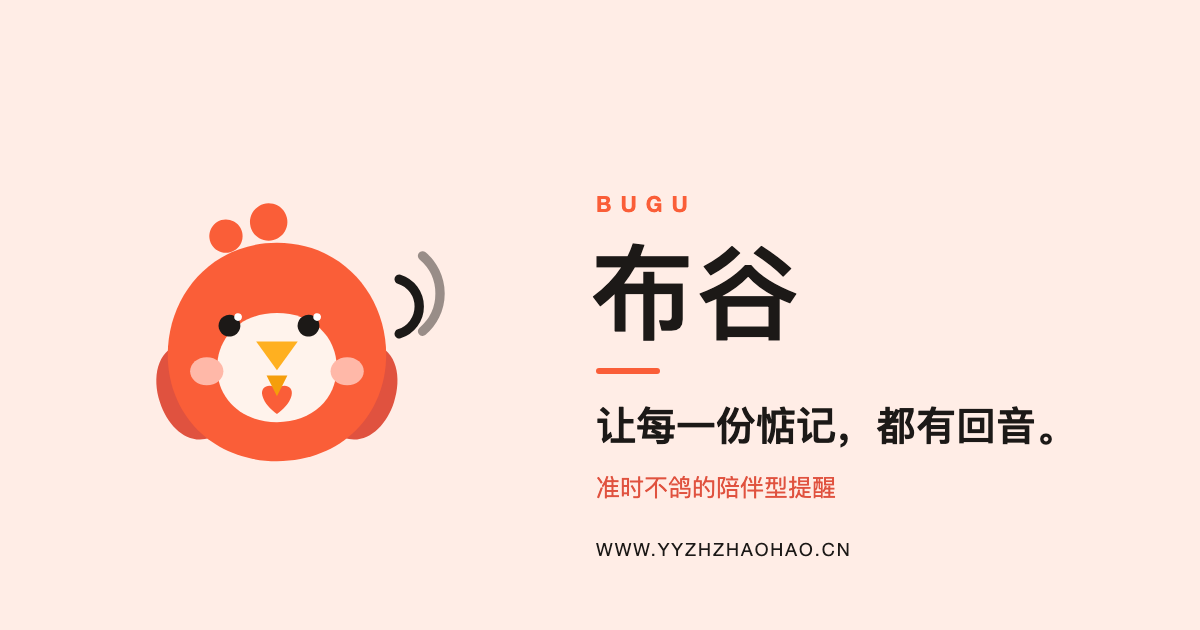
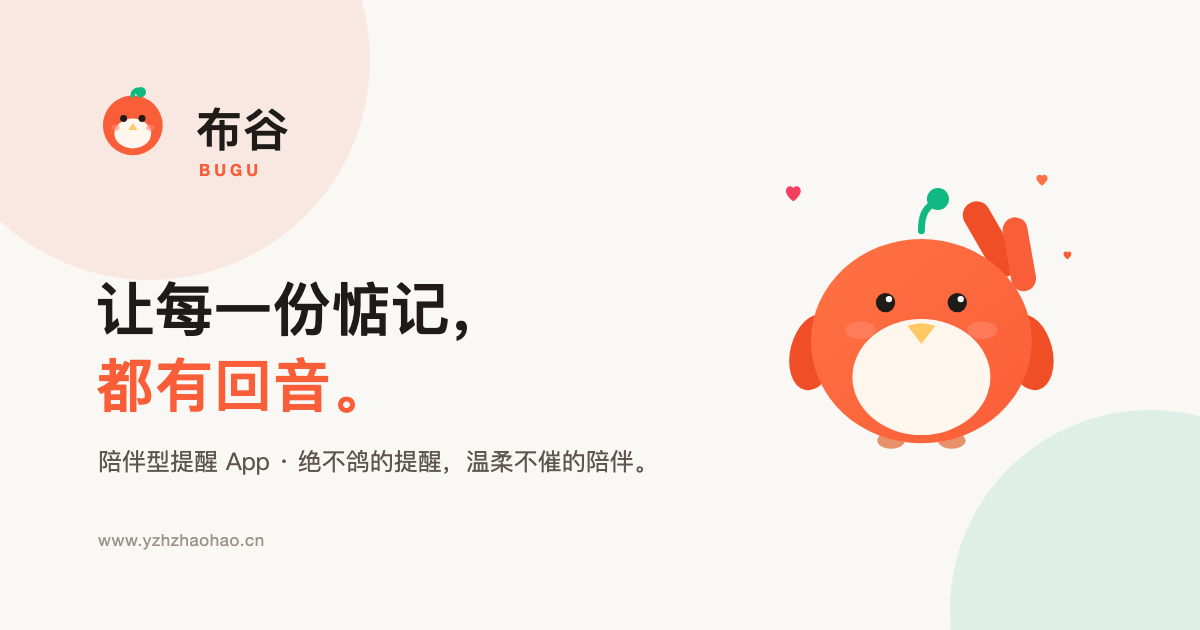
feat(website): 以官网原站点设计为母版统一全站视觉
页头图形、favicon 全尺寸与 OG 卡统一切换为原站点设计语言（同一几何构成
与色板），并修复 favicon 多尺寸资源与 og:image 从未部署成功/从未声明导致
分享卡片长期无图的问题。版本参数同步为 ?v=20261110。

diff --git a/website/src/pages/BondPage.vue b/website/src/pages/BondPage.vue
@@ -106,25 +106,13 @@ onUnmounted(() => {
       <div class="container bar">
         <a class="logo" href="../index.html" aria-label="布谷 BUGU 首页">
           <svg viewBox="0 0 64 64" aria-hidden="true">
-            <g transform="translate(-26.43,-19.15)">
-              <path fill="#E0523F" d="M46.5,30.5 A3.2,3.2 0 1,1 46.4,30.4 Z"/>
-              <path fill="#E0523F" d="M55,27.5 A3.6,3.6 0 1,1 54.9,27.4 Z"/>
-              <g transform="rotate(-18 38 62)"><path fill="#E0523F" d="M38,53 C 33.5,53 31,57.5 31,62.5 C 31,67.5 33.5,72 38,72 C 42.5,72 45,67.5 45,62.5 C 45,57.5 42.5,53 38,53 Z"/></g>
-              <g transform="rotate(18 70 62)"><path fill="#E0523F" d="M70,53 C 65.5,53 63,57.5 63,62.5 C 63,67.5 65.5,72 70,72 C 74.5,72 77,67.5 77,62.5 C 77,57.5 74.5,53 70,53 Z"/></g>
-              <path fill="#FA5E38" d="M54,34 C 66.5,34 75,44 75,55.5 C 75,67 66.5,76 54,76 C 41.5,76 33,67 33,55.5 C 33,44 41.5,34 54,34 Z"/>
-              <path fill="#FFF3EC" d="M54,47.5 C 60.8,47.5 65.5,52 65.5,58 C 65.5,64 60.8,68.5 54,68.5 C 47.2,68.5 42.5,64 42.5,58 C 42.5,52 47.2,47.5 54,47.5 Z"/>
-              <path fill="#FA5E38" d="M54,62.2 C 52.9,60.9 50.7,61.5 51.2,63.4 C 51.6,64.9 52.8,66 54,66.9 C 55.2,66 56.4,64.9 56.8,63.4 C 57.3,61.5 55.1,60.9 54,62.2 Z"/>
-              <path fill="#1C1917" d="M46.4,48.5 A2.1,2.1 0 1,1 46.3,48.4 Z"/>
-              <path fill="#1C1917" d="M61.6,48.5 A2.1,2.1 0 1,1 61.5,48.4 Z"/>
-              <path fill="#FFFFFF" d="M47.1,47.8 A0.75,0.75 0 1,1 47.0,47.7 Z"/>
-              <path fill="#FFFFFF" d="M62.3,47.8 A0.75,0.75 0 1,1 62.2,47.7 Z"/>
-              <path fill="#FFB020" d="M50,53 L58,53 L54,58.5 Z"/>
-              <path fill="#F59E0B" d="M52,59.5 L56,59.5 L54,63.5 Z"/>
-              <path fill="#FFB8A8" d="M40.5,56 C 42.3,56 43.7,57.2 43.7,58.7 C 43.7,60.2 42.3,61.4 40.5,61.4 C 38.7,61.4 37.3,60.2 37.3,58.7 C 37.3,57.2 38.7,56 40.5,56 Z"/>
-              <path fill="#FFB8A8" d="M67.5,56 C 69.3,56 70.7,57.2 70.7,58.7 C 70.7,60.2 69.3,61.4 67.5,61.4 C 65.7,61.4 64.3,60.2 64.3,58.7 C 64.3,57.2 65.7,56 67.5,56 Z"/>
-              <path fill="none" stroke="#1C1917" stroke-width="1.8" stroke-linecap="round" d="M77.5,41 A5.5,5.5 0 0,1 77.5,51.5"/>
-              <path fill="none" stroke="#1C1917" stroke-width="1.8" stroke-linecap="round" stroke-opacity="0.45" d="M82,36.5 A9.5,9.5 0 0,1 82,51"/>
-            </g>
+            <circle cx="32" cy="36" r="26" fill="#FA5E38"/>
+            <ellipse cx="32" cy="43" rx="16" ry="13" fill="#FFF6EE"/>
+            <circle cx="24" cy="30" r="3" fill="#1E1B18"/>
+            <circle cx="40" cy="30" r="3" fill="#1E1B18"/>
+            <path d="M32 34 L28 40 L36 40 Z" fill="#FFC966"/>
+            <path d="M32 10 C32 6 36 4 38 6" stroke="#10B981" stroke-width="4" stroke-linecap="round" fill="none"/>
+            <circle cx="39" cy="7" r="4.5" fill="#10B981"/>
           </svg>
           <span class="logo-name">布谷</span>
           <span class="logo-en">BUGU</span>

diff --git a/website/src/components/LegalLayout.vue b/website/src/components/LegalLayout.vue
@@ -13,25 +13,13 @@ defineProps<{
       <div class="container bar">
         <a class="logo" href="./index.html" aria-label="布谷 BUGU 首页">
           <svg viewBox="0 0 64 64" aria-hidden="true">
-            <g transform="translate(-26.43,-19.15)">
-              <path fill="#E0523F" d="M46.5,30.5 A3.2,3.2 0 1,1 46.4,30.4 Z"/>
-              <path fill="#E0523F" d="M55,27.5 A3.6,3.6 0 1,1 54.9,27.4 Z"/>
-              <g transform="rotate(-18 38 62)"><path fill="#E0523F" d="M38,53 C 33.5,53 31,57.5 31,62.5 C 31,67.5 33.5,72 38,72 C 42.5,72 45,67.5 45,62.5 C 45,57.5 42.5,53 38,53 Z"/></g>
-              <g transform="rotate(18 70 62)"><path fill="#E0523F" d="M70,53 C 65.5,53 63,57.5 63,62.5 C 63,67.5 65.5,72 70,72 C 74.5,72 77,67.5 77,62.5 C 77,57.5 74.5,53 70,53 Z"/></g>
-              <path fill="#FA5E38" d="M54,34 C 66.5,34 75,44 75,55.5 C 75,67 66.5,76 54,76 C 41.5,76 33,67 33,55.5 C 33,44 41.5,34 54,34 Z"/>
-              <path fill="#FFF3EC" d="M54,47.5 C 60.8,47.5 65.5,52 65.5,58 C 65.5,64 60.8,68.5 54,68.5 C 47.2,68.5 42.5,64 42.5,58 C 42.5,52 47.2,47.5 54,47.5 Z"/>
-              <path fill="#FA5E38" d="M54,62.2 C 52.9,60.9 50.7,61.5 51.2,63.4 C 51.6,64.9 52.8,66 54,66.9 C 55.2,66 56.4,64.9 56.8,63.4 C 57.3,61.5 55.1,60.9 54,62.2 Z"/>
-              <path fill="#1C1917" d="M46.4,48.5 A2.1,2.1 0 1,1 46.3,48.4 Z"/>
-              <path fill="#1C1917" d="M61.6,48.5 A2.1,2.1 0 1,1 61.5,48.4 Z"/>
-              <path fill="#FFFFFF" d="M47.1,47.8 A0.75,0.75 0 1,1 47.0,47.7 Z"/>
-              <path fill="#FFFFFF" d="M62.3,47.8 A0.75,0.75 0 1,1 62.2,47.7 Z"/>
-              <path fill="#FFB020" d="M50,53 L58,53 L54,58.5 Z"/>
-              <path fill="#F59E0B" d="M52,59.5 L56,59.5 L54,63.5 Z"/>
-              <path fill="#FFB8A8" d="M40.5,56 C 42.3,56 43.7,57.2 43.7,58.7 C 43.7,60.2 42.3,61.4 40.5,61.4 C 38.7,61.4 37.3,60.2 37.3,58.7 C 37.3,57.2 38.7,56 40.5,56 Z"/>
-              <path fill="#FFB8A8" d="M67.5,56 C 69.3,56 70.7,57.2 70.7,58.7 C 70.7,60.2 69.3,61.4 67.5,61.4 C 65.7,61.4 64.3,60.2 64.3,58.7 C 64.3,57.2 65.7,56 67.5,56 Z"/>
-              <path fill="none" stroke="#1C1917" stroke-width="1.8" stroke-linecap="round" d="M77.5,41 A5.5,5.5 0 0,1 77.5,51.5"/>
-              <path fill="none" stroke="#1C1917" stroke-width="1.8" stroke-linecap="round" stroke-opacity="0.45" d="M82,36.5 A9.5,9.5 0 0,1 82,51"/>
-            </g>
+            <circle cx="32" cy="36" r="26" fill="#FA5E38"/>
+            <ellipse cx="32" cy="43" rx="16" ry="13" fill="#FFF6EE"/>
+            <circle cx="24" cy="30" r="3" fill="#1E1B18"/>
+            <circle cx="40" cy="30" r="3" fill="#1E1B18"/>
+            <path d="M32 34 L28 40 L36 40 Z" fill="#FFC966"/>
+            <path d="M32 10 C32 6 36 4 38 6" stroke="#10B981" stroke-width="4" stroke-linecap="round" fill="none"/>
+            <circle cx="39" cy="7" r="4.5" fill="#10B981"/>
           </svg>
           <span class="logo-name">布谷</span>
           <span class="logo-en">BUGU</span>

diff --git a/website/src/components/SiteHeader.vue b/website/src/components/SiteHeader.vue
@@ -21,25 +21,13 @@ onUnmounted(() => {
     <div class="container bar">
       <a class="logo" href="#top" aria-label="布谷 BUGU 首页">
         <svg viewBox="0 0 64 64" class="logo-mark" aria-hidden="true">
-          <g transform="translate(-26.43,-19.15)">
-            <path fill="#E0523F" d="M46.5,30.5 A3.2,3.2 0 1,1 46.4,30.4 Z"/>
-            <path fill="#E0523F" d="M55,27.5 A3.6,3.6 0 1,1 54.9,27.4 Z"/>
-            <g transform="rotate(-18 38 62)"><path fill="#E0523F" d="M38,53 C 33.5,53 31,57.5 31,62.5 C 31,67.5 33.5,72 38,72 C 42.5,72 45,67.5 45,62.5 C 45,57.5 42.5,53 38,53 Z"/></g>
-            <g transform="rotate(18 70 62)"><path fill="#E0523F" d="M70,53 C 65.5,53 63,57.5 63,62.5 C 63,67.5 65.5,72 70,72 C 74.5,72 77,67.5 77,62.5 C 77,57.5 74.5,53 70,53 Z"/></g>
-            <path fill="#FA5E38" d="M54,34 C 66.5,34 75,44 75,55.5 C 75,67 66.5,76 54,76 C 41.5,76 33,67 33,55.5 C 33,44 41.5,34 54,34 Z"/>
-            <path fill="#FFF3EC" d="M54,47.5 C 60.8,47.5 65.5,52 65.5,58 C 65.5,64 60.8,68.5 54,68.5 C 47.2,68.5 42.5,64 42.5,58 C 42.5,52 47.2,47.5 54,47.5 Z"/>
-            <path fill="#FA5E38" d="M54,62.2 C 52.9,60.9 50.7,61.5 51.2,63.4 C 51.6,64.9 52.8,66 54,66.9 C 55.2,66 56.4,64.9 56.8,63.4 C 57.3,61.5 55.1,60.9 54,62.2 Z"/>
-            <path fill="#1C1917" d="M46.4,48.5 A2.1,2.1 0 1,1 46.3,48.4 Z"/>
-            <path fill="#1C1917" d="M61.6,48.5 A2.1,2.1 0 1,1 61.5,48.4 Z"/>
-            <path fill="#FFFFFF" d="M47.1,47.8 A0.75,0.75 0 1,1 47.0,47.7 Z"/>
-            <path fill="#FFFFFF" d="M62.3,47.8 A0.75,0.75 0 1,1 62.2,47.7 Z"/>
-            <path fill="#FFB020" d="M50,53 L58,53 L54,58.5 Z"/>
-            <path fill="#F59E0B" d="M52,59.5 L56,59.5 L54,63.5 Z"/>
-            <path fill="#FFB8A8" d="M40.5,56 C 42.3,56 43.7,57.2 43.7,58.7 C 43.7,60.2 42.3,61.4 40.5,61.4 C 38.7,61.4 37.3,60.2 37.3,58.7 C 37.3,57.2 38.7,56 40.5,56 Z"/>
-            <path fill="#FFB8A8" d="M67.5,56 C 69.3,56 70.7,57.2 70.7,58.7 C 70.7,60.2 69.3,61.4 67.5,61.4 C 65.7,61.4 64.3,60.2 64.3,58.7 C 64.3,57.2 65.7,56 67.5,56 Z"/>
-            <path fill="none" stroke="#1C1917" stroke-width="1.8" stroke-linecap="round" d="M77.5,41 A5.5,5.5 0 0,1 77.5,51.5"/>
-            <path fill="none" stroke="#1C1917" stroke-width="1.8" stroke-linecap="round" stroke-opacity="0.45" d="M82,36.5 A9.5,9.5 0 0,1 82,51"/>
-          </g>
+          <circle cx="32" cy="36" r="26" fill="#FA5E38"/>
+          <ellipse cx="32" cy="43" rx="16" ry="13" fill="#FFF6EE"/>
+          <circle cx="24" cy="30" r="3" fill="#1E1B18"/>
+          <circle cx="40" cy="30" r="3" fill="#1E1B18"/>
+          <path d="M32 34 L28 40 L36 40 Z" fill="#FFC966"/>
+          <path d="M32 10 C32 6 36 4 38 6" stroke="#10B981" stroke-width="4" stroke-linecap="round" fill="none"/>
+          <circle cx="39" cy="7" r="4.5" fill="#10B981"/>
         </svg>
         <span class="logo-name">布谷</span>
         <span class="logo-en">BUGU</span>

diff --git a/website/privacy.html b/website/privacy.html
@@ -2,10 +2,10 @@
 <html lang="zh-CN">
   <head>
     <meta charset="UTF-8" />
-    <link rel="icon" type="image/svg+xml" href="./favicon.svg" />
-    <link rel="icon" type="image/png" sizes="32x32" href="./favicon-32.png" />
-    <link rel="icon" type="image/png" sizes="16x16" href="./favicon-16.png" />
-    <link rel="apple-touch-icon" sizes="180x180" href="./apple-touch-icon.png" />
+    <link rel="icon" type="image/svg+xml" href="./favicon.svg?v=20261110" />
+    <link rel="icon" type="image/png" sizes="32x32" href="./favicon-32.png?v=20261110" />
+    <link rel="icon" type="image/png" sizes="16x16" href="./favicon-16.png?v=20261110" />
+    <link rel="apple-touch-icon" sizes="180x180" href="./apple-touch-icon.png?v=20261110" />
     <meta name="viewport" content="width=device-width, initial-scale=1.0" />
     <meta name="theme-color" content="#FAF8F5" />
     <meta
@@ -13,6 +13,15 @@
       content="布谷 BUGU 隐私政策：说明我们收集哪些个人信息、如何使用与保护、第三方 SDK 清单、数据保留期限，以及账号注销方式与联系方式。"
     />
     <title>隐私政策 — 布谷 BUGU</title>
+    <meta property="og:type" content="article" />
+    <meta property="og:title" content="隐私政策 — 布谷 BUGU" />
+    <meta
+      property="og:description"
+      content="布谷 BUGU 隐私政策：说明我们收集哪些个人信息、如何使用与保护、第三方 SDK 清单、数据保留期限，以及账号注销方式与联系方式。"
+    />
+    <meta property="og:url" content="https://www.yzhzhaohao.cn/privacy.html" />
+    <meta property="og:image" content="https://www.yzhzhaohao.cn/og-image.png?v=20261110" />
+    <meta name="twitter:card" content="summary_large_image" />
   </head>
   <body>
     <div id="app"></div>

diff --git a/website/terms.html b/website/terms.html
@@ -2,10 +2,10 @@
 <html lang="zh-CN">
   <head>
     <meta charset="UTF-8" />
-    <link rel="icon" type="image/svg+xml" href="./favicon.svg" />
-    <link rel="icon" type="image/png" sizes="32x32" href="./favicon-32.png" />
-    <link rel="icon" type="image/png" sizes="16x16" href="./favicon-16.png" />
-    <link rel="apple-touch-icon" sizes="180x180" href="./apple-touch-icon.png" />
+    <link rel="icon" type="image/svg+xml" href="./favicon.svg?v=20261110" />
+    <link rel="icon" type="image/png" sizes="32x32" href="./favicon-32.png?v=20261110" />
+    <link rel="icon" type="image/png" sizes="16x16" href="./favicon-16.png?v=20261110" />
+    <link rel="apple-touch-icon" sizes="180x180" href="./apple-touch-icon.png?v=20261110" />
     <meta name="viewport" content="width=device-width, initial-scale=1.0" />
     <meta name="theme-color" content="#FAF8F5" />
     <meta
@@ -13,6 +13,15 @@
       content="布谷 BUGU 用户协议：服务内容、账号规则、使用规范、互伴关系、费用说明、免责声明与联系方式。"
     />
     <title>用户协议 — 布谷 BUGU</title>
+    <meta property="og:type" content="article" />
+    <meta property="og:title" content="用户协议 — 布谷 BUGU" />
+    <meta
+      property="og:description"
+      content="布谷 BUGU 用户协议：服务内容、账号规则、使用规范、互伴关系、费用说明、免责声明与联系方式。"
+    />
+    <meta property="og:url" content="https://www.yzhzhaohao.cn/terms.html" />
+    <meta property="og:image" content="https://www.yzhzhaohao.cn/og-image.png?v=20261110" />
+    <meta name="twitter:card" content="summary_large_image" />
   </head>
   <body>
     <div id="app"></div>

diff --git a/website/bond/index.html b/website/bond/index.html
@@ -2,10 +2,10 @@
 <html lang="zh-CN">
   <head>
     <meta charset="UTF-8" />
-    <link rel="icon" type="image/svg+xml" href="../favicon.svg" />
-    <link rel="icon" type="image/png" sizes="32x32" href="../favicon-32.png" />
-    <link rel="icon" type="image/png" sizes="16x16" href="../favicon-16.png" />
-    <link rel="apple-touch-icon" sizes="180x180" href="../apple-touch-icon.png" />
+    <link rel="icon" type="image/svg+xml" href="../favicon.svg?v=20261110" />
+    <link rel="icon" type="image/png" sizes="32x32" href="../favicon-32.png?v=20261110" />
+    <link rel="icon" type="image/png" sizes="16x16" href="../favicon-16.png?v=20261110" />
+    <link rel="apple-touch-icon" sizes="180x180" href="../apple-touch-icon.png?v=20261110" />
     <meta name="viewport" content="width=device-width, initial-scale=1.0" />
     <meta name="theme-color" content="#FAF8F5" />
     <meta name="robots" content="noindex" />
@@ -14,6 +14,15 @@
       content="布谷邀请：有人想和你互相提醒。查看你的 6 位邀请码，打开布谷完成绑定。"
     />
     <title>收到一份提醒 — 布谷 BUGU</title>
+    <meta property="og:type" content="website" />
+    <meta property="og:title" content="收到一份提醒 — 布谷 BUGU" />
+    <meta
+      property="og:description"
+      content="布谷邀请：有人想和你互相提醒。查看你的 6 位邀请码，打开布谷完成绑定。"
+    />
+    <meta property="og:url" content="https://www.yzhzhaohao.cn/bond/" />
+    <meta property="og:image" content="https://www.yzhzhaohao.cn/og-image.png?v=20261110" />
+    <meta name="twitter:card" content="summary_large_image" />
   </head>
   <body>
     <div id="app"></div>

diff --git a/website/index.html b/website/index.html
@@ -2,10 +2,10 @@
 <html lang="zh-CN">
   <head>
     <meta charset="UTF-8" />
-    <link rel="icon" type="image/svg+xml" href="./favicon.svg" />
-    <link rel="icon" type="image/png" sizes="32x32" href="./favicon-32.png" />
-    <link rel="icon" type="image/png" sizes="16x16" href="./favicon-16.png" />
-    <link rel="apple-touch-icon" sizes="180x180" href="./apple-touch-icon.png" />
+    <link rel="icon" type="image/svg+xml" href="./favicon.svg?v=20261110" />
+    <link rel="icon" type="image/png" sizes="32x32" href="./favicon-32.png?v=20261110" />
+    <link rel="icon" type="image/png" sizes="16x16" href="./favicon-16.png?v=20261110" />
+    <link rel="apple-touch-icon" sizes="180x180" href="./apple-touch-icon.png?v=20261110" />
     <meta name="viewport" content="width=device-width, initial-scale=1.0" />
     <meta name="theme-color" content="#FAF8F5" />
     <meta
@@ -13,6 +13,15 @@
       content="布谷 BUGU · 陪伴型提醒 App。绝不鸽的提醒，温柔不催的陪伴，有人提醒你。"
     />
     <title>布谷 BUGU — 让每一份惦记，都有回音</title>
+    <meta property="og:type" content="website" />
+    <meta property="og:title" content="布谷 BUGU — 让每一份惦记，都有回音" />
+    <meta
+      property="og:description"
+      content="布谷 BUGU · 陪伴型提醒 App。绝不鸽的提醒，温柔不催的陪伴，有人提醒你。"
+    />
+    <meta property="og:url" content="https://www.yzhzhaohao.cn/" />
+    <meta property="og:image" content="https://www.yzhzhaohao.cn/og-image.png?v=20261110" />
+    <meta name="twitter:card" content="summary_large_image" />
   </head>
   <body>
     <div id="app"></div>
